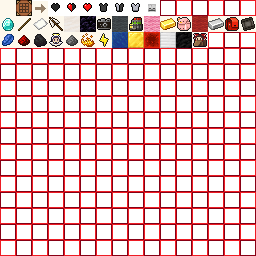
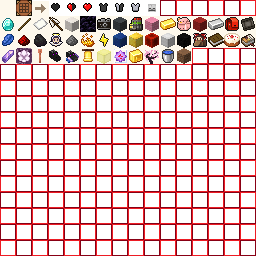
背包UI

diff --git a/MemorizableGensokyo/main.js b/MemorizableGensokyo/main.js
@@ -34,7 +34,7 @@ var itemFont = {
     "forge:rods/wooden": 0x11,
     "minecraft:paper": 0x12,
     "thlm:gohei": 0x13,
-    "touhou_little_maid:hakurei_gohei_pellet": 0x13,
+    "touhou_little_maid:hakurei_gohei": 0x13,
     // 照相机
     "minecraft:quartz_block": 0x14,
     "minecraft:obsidian": 0x15,
@@ -79,50 +79,36 @@ var itemFont = {
     "minecraft:chorus_flower": 0x31,
     "minecraft:lightning_rod": 0x32,
     "minecraft:skull:5": 0x33,
+    "touhou_little_maid:dragon_skull": 0x34,
 
     // 黄金微波炉
-    "minecraft:bell": 0x34,
-    "minecraft:yellow_stained_glass": 0x35,
-    "minecraft:end_crystal": 0x36,
+    "minecraft:bell": 0x35,
+    "minecraft:yellow_stained_glass": 0x36,
+    "minecraft:end_crystal": 0x37,
+    "touhou_little_maid:gold_microwaver_item": 0x38, 
 
     // 樱之御币
-    "minecraft:cherry_sapling": 0x37,
-    "minecraft:water_bucket": 0x38,
-    "minecraft:dirt": 0x39
+    "minecraft:cherry_sapling": 0x39,
+    "minecraft:water_bucket": 0x3A,
+    "minecraft:dirt": 0x3B
 };
 
 ///// 处理 /////
 function generate(){
-    var errorLog = document.getElementById("error_log").value;
     // 解析合成表
-    var recipeStr = document.getElementById("recipe").value;
-    recipeStr = recipeStr.replace("export const recipe = ", "");
-    var recipe = JSON.parse(recipeStr);
     var recipeInfo = {};
-    if(recipe["type"] != undefined 
-        && recipe["type"] === "touhou_little_maid:altar_crafting")
-    {
-        // 祭坛合成，收集所需物品信息
-        recipeInfo["type"] = "altar";
-        recipeInfo["list"] = [];
-        recipeInfo["output"] = recipe["output"]["nbt"]["Item"]["id"];
-        recipeInfo["output_c"] = recipe["output"]["nbt"]["Item"]["Count"];
-        recipeInfo["p"] = recipe["power"]
-        for(let input of recipe["ingredients"]){
-            // tag 或 item
-            let id = input["item"]===undefined ? input["tag"]:input["item"];
-            recipeInfo["list"].push(id);
-            if(itemFont[id] === undefined){
-                errorLog.innerHTML += `错误：未指定的图标 ${id}\n`;
-                return;
-            }
-        }
-    }
-    else{
-        // 工作台合成
-        recipeInfo["type"] = "table";
-
-    }
+    recipeInfo["list"] = [
+        document.getElementById("recipe1").value,
+        document.getElementById("recipe2").value,
+        document.getElementById("recipe3").value,
+        document.getElementById("recipe4").value,
+        document.getElementById("recipe5").value,
+        document.getElementById("recipe6").value,
+    ];
+    recipeInfo["output"] = document.getElementById("output").value;
+    recipeInfo["output_c"] = document.getElementById("output_c").value;
+    recipeInfo["p"] = document.getElementById("power").value;
+    if(recipeInfo["p"] === '1') recipeInfo["p"] = ' '
 
     // 生成字符串
     var title  = document.getElementById("title").value;
@@ -139,32 +125,32 @@ function generate(){
     lang[`me.c${c}.p${p}.ti`] = `§l${title}§r`;
     lang[`me.c${c}.p${p}.t1`] = `   ${info}`;
     
-    if(recipeInfo["type"] === "altar"){
-        var recipeStr = TemplateAltar;
+    var recipeStr = TemplateAltar;
         
-        // 产物
-        let count = recipeInfo["output_c"]===1?' ':`${recipeInfo["output_c"]}`;
-        recipeStr = recipeStr.replace("$n", count);
-        let cid = itemFont[recipeInfo["output"]];
-        recipeStr = recipeStr.replace("$", String.fromCodePoint(FontRoot+cid));
+    // 产物
+    let count = recipeInfo["output_c"]===1?' ':`${recipeInfo["output_c"]}`;
+    recipeStr = recipeStr.replace("$n", count);
+    let cid = itemFont[recipeInfo["output"]];
+    recipeStr = recipeStr.replace("$", String.fromCodePoint(FontRoot+cid));
 
-        // 材料
-        for(let i = 0; i<6; i++){
-            let id = VoidItem;
-            if(recipeInfo["list"][i]!=undefined){
-                id = itemFont[recipeInfo["list"][i]];
-            }
-            recipeStr = recipeStr.replace(`%${i+1}`, String.fromCodePoint(FontRoot+id));
+    // 材料
+    for(let i = 0; i<6; i++){
+        let id = VoidItem;
+        if(recipeInfo["list"][i]!=undefined){
+            id = itemFont[recipeInfo["list"][i]];
         }
-        // P点
-        recipeStr = recipeStr.replace("%p", `P:${recipeInfo["p"].toFixed(2)}`);
-        
-        lang[`me.c${c}.p${p}.t2`] = recipeStr;
+        recipeStr = recipeStr.replace(`%${i+1}`, String.fromCodePoint(FontRoot+id));
     }
-
+    // P点
+    recipeStr = recipeStr.replace("%p", `P:${recipeInfo["p"]}`);
+    
+    lang[`me.c${c}.p${p}.t2`] = recipeStr;
+    
     // 输出
-    document.getElementById("booktext").value = JSON.stringify(book, null, '');
-    let langStr = "";
+    let bookStr = JSON.stringify(book, null, '');
+    document.getElementById("booktext").value = bookStr;
+    
+    let langStr = `## ${title} ##\n## ${bookStr}\n`;
     for(let langKey in lang){
         langStr += `${langKey}=${lang[langKey]}\n`
     }
@@ -228,8 +214,10 @@ function generate_table(){
     lang[`me.c${c}.p${p}.t2`] = recipeStr;
 
     // 输出
-    document.getElementById("booktext").value = JSON.stringify(book, null, '');
-    let langStr = "";
+    let bookStr = JSON.stringify(book, null, '');
+    document.getElementById("booktext").value = bookStr;
+    
+    let langStr = `## ${title} ##\n## ${bookStr}\n`;
     for(let langKey in lang){
         langStr += `${langKey}=${lang[langKey]}\n`
     }

diff --git a/TouHouLittleMaid_BP/scripts/src/maid/MaidBackpack.js b/TouHouLittleMaid_BP/scripts/src/maid/MaidBackpack.js
@@ -15,6 +15,12 @@ export class MaidBackpack{
         "big"
     ]
     static capacityList = [6, 12, 24, 36]
+    static nameTags = [
+        "§t§h§l§m§d",
+        "§t§h§l§m§s",
+        "§t§h§l§m§m",
+        "§t§h§l§m§b"
+    ]
     // 区块加载器, config.Maid.death_bag 为false时启用
     static loader = {
         // 区块加载器的实体id
@@ -88,7 +94,8 @@ export class MaidBackpack{
         
         // 设置大小
         backpack.triggerEvent(`api:${this.type2Name(type)}`);
-        
+        backpack.nameTag = this.nameTags[type];
+
         // 设置默认状态
         backpack.triggerEvent(`api:hide`);// 隐藏
 
@@ -134,7 +141,7 @@ export class MaidBackpack{
      * @param {Entity} backpack
      * @return {string}
      */
-    static getName(type){
+    static getName(backpack){
         return this.type2Name(this.getType(backpack));
     }
     /**
@@ -223,8 +230,10 @@ export class MaidBackpack{
     static setType(backpack, type){
         let type_old = this.getType(backpack);
         if(type_old !== type){
+            // 改变背包类型
             backpack.triggerEvent(`api:quit_${this.type2Name(type_old)}`);
             backpack.triggerEvent(`api:${this.type2Name(type)}`);
+            backpack.nameTag = this.nameTags[type];
             // 改变女仆的背包类型
             let maid = this.getMaid(backpack);
             if(maid !== undefined){

diff --git a/MemorizableGensokyo/祭坛配方生成辅助.html b/MemorizableGensokyo/祭坛配方生成辅助.html
@@ -22,8 +22,20 @@
         </div>
         
         <div style="text-indent: 10px;">
-            <p>配方json</p>
-            <textarea id="recipe" name="recipe" style="padding:10px;" cols="40", rows="5"></textarea>
+            <p>配方</p>
+            <textarea id="recipe1" name="recipe" style="padding:10px;" cols="20", rows="1">air</textarea>
+            <textarea id="recipe2" name="recipe" style="padding:10px;" cols="20", rows="1">air</textarea>
+            <textarea id="recipe3" name="recipe" style="padding:10px;" cols="20", rows="1">air</textarea>
+            <br>
+            <textarea id="recipe4" name="recipe" style="padding:10px;" cols="20", rows="1">air</textarea>
+            <textarea id="recipe5" name="recipe" style="padding:10px;" cols="20", rows="1">air</textarea>
+            <textarea id="recipe6" name="recipe" style="padding:10px;" cols="20", rows="1">air</textarea>
+            <br>
+            Power: <textarea id="power" name="recipe" style="padding:10px;" cols="20", rows="1">1.00</textarea>
+            <br>
+            产物 
+            <textarea id="output" name="recipe" style="padding:10px;" cols="20", rows="1">air</textarea>
+            <textarea id="output_c" name="recipe" style="padding:10px;" cols="10", rows="1">1</textarea>
         </div>
         <div>
             <textarea id="chapter" name="recipe" style="padding:5px;" cols="3", rows="1">章</textarea>

diff --git a/TouHouLittleMaid_BP/scripts/src/controller/Command.js b/TouHouLittleMaid_BP/scripts/src/controller/Command.js
@@ -1,8 +1,8 @@
 import { ScriptEventCommandMessageAfterEvent } from "@minecraft/server";
-import * as Tool from"./src/libs/scarletToolKit";
-import { StrMaid } from "./src/maid/StrMaid";
-import { MaidSkin } from "./src/maid/MaidSkin";
-import { ConfigHelper } from "./src/controller/Config";
+import * as Tool from"../libs/scarletToolKit";
+import { StrMaid } from "../maid/StrMaid";
+import { MaidSkin } from "../maid/MaidSkin";
+import { ConfigHelper } from "./Config";
 
 export class CommandManager{
     /**
@@ -14,8 +14,8 @@ export class CommandManager{
         // 不要求使用者为玩家的命令，返回值均在世界范围广播
         switch(event.id){
             case "thlm:skin_set": this.setSkin(event); break;
-            case "thlm:config": this.config(event); break;
-            case "thlm:admin": this.admin(event); break;
+            case "thlm:config"  : this.config(event) ; break;
+            case "thlm:admin"   : this.admin(event)  ; break;
             default: break;
         }
     }

diff --git a/TouHouLittleMaid_BP/scripts/index.js b/TouHouLittleMaid_BP/scripts/index.js
@@ -104,6 +104,7 @@ class thlm {
                     PowerPoint.set_power_number(player.name, 0);
                     // 给书
                     player.dimension.runCommand(`give ${playerName} touhou_little_maid:memorizable_gensokyo_1 1`);
+                    player.dimension.runCommand(`give ${playerName} touhou_little_maid:memorizable_gensokyo_2 1`);
                     // 给魂符
                     player.dimension.runCommand(`give ${playerName} touhou_little_maid:smart_slab_has_maid 1`);
                     // say something

diff --git a/Docs/TODO.md b/Docs/TODO.md
@@ -63,15 +63,12 @@
 
 ## 计划
 
-√ 添加备用寻主方式：玩家名寻主。当id寻主失败时会使用玩家名寻主。
-√ 添加进服信息。
-
 添加管理指令，查看和更改魂符、女仆的信息等。
+背包UI
 
 *回血数字
 *女仆背包内物品进入箱子的方式。九宫格存在绑定问题，不太好实现；隙间容易做，但是需要增加饰品功能。
 *相册（如果lore没有上限或者在装满的状态不会溢出，可以考虑加一个）
-*背包UI（目前不改也能用）
 *黄金微波炉的音效
 *弹幕的架构设计存在缺陷，不能很好地同时处理默认弹幕与自定义弹幕。考虑为 默认弹幕 和 自定义弹幕 的实体专门建类，发射时根据类型用它们来构造实体，然后用相同的方法发射。
 
